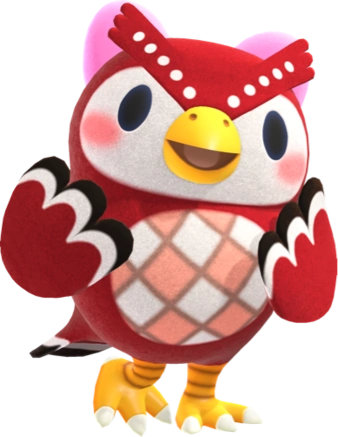
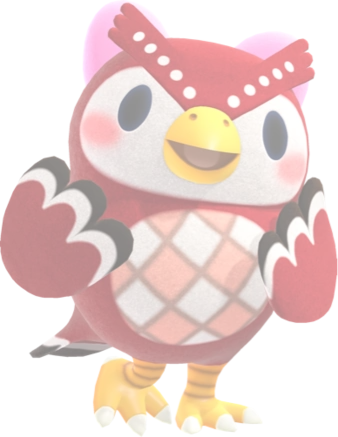
Changed celeste into a background

diff --git a/css/default.css b/css/default.css
@@ -38,7 +38,11 @@
 }
 
 body {
-  font-family: -apple-system,BlinkMacSystemFont,"Segoe UI",Roboto,"Helvetica Neue",Arial,"Noto Sans",sans-serif,"Apple Color Emoji","Segoe UI Emoji","Segoe UI Symbol","Noto Color Emoji"
+  font-family: -apple-system,BlinkMacSystemFont,"Segoe UI",Roboto,"Helvetica Neue",Arial,"Noto Sans",sans-serif,"Apple Color Emoji","Segoe UI Emoji","Segoe UI Symbol","Noto Color Emoji";
+  background-image: url("../img/celeste.png");
+  background-position: right bottom;
+  background-repeat: no-repeat;
+  background-attachment: fixed;
 }
 
 #time_offset {
@@ -47,7 +51,7 @@ body {
 
 @media (prefers-color-scheme: dark) {
   body {
-    background: rgb(21, 32, 43);
+    background-color: rgb(21, 32, 43);
     color: #FFF;
   }
   a:visited {
@@ -56,8 +60,9 @@ body {
 }
 @media (prefers-color-scheme: light) {
   body {
-    background: #fff;
+    background-color: #fff;
     color: #000;
   }
 }
+
 

diff --git a/index.html b/index.html
@@ -25,7 +25,6 @@
     </div>
 
     <div id="list"></div>
-    <img id="celeste" src="img/celeste.png">
     <div id="data">
       <h2>Instructions</h2>
       <ol>
